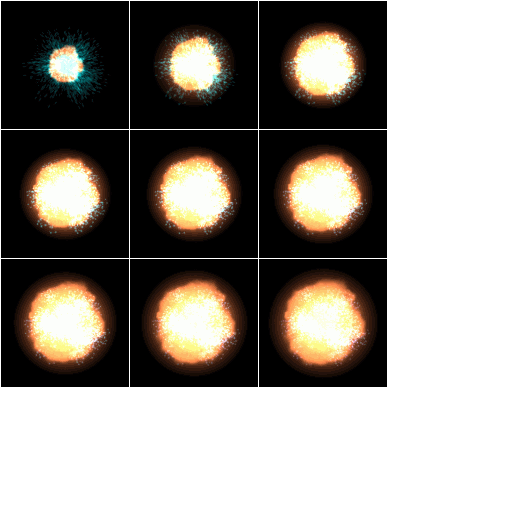
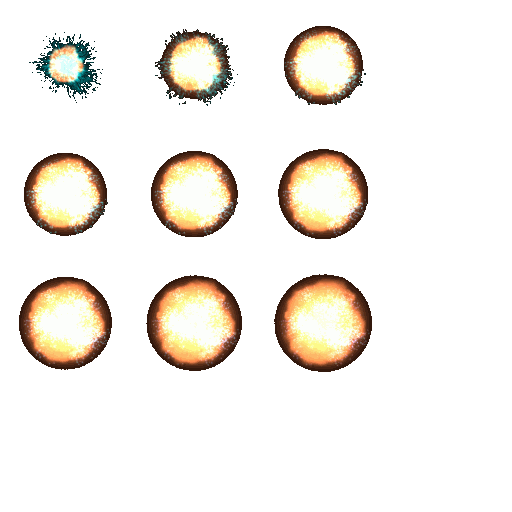
batch edit images with black for transparency: new script; modified images.

diff --git a/fixImages.py b/fixImages.py
@@ -1,0 +1,12 @@
+import os
+from subprocess import call
+
+def process(imgs, dirname, fnames):
+	print "replacing black backgrounds with transparency"
+	for img in imgs:
+		hits = [os.path.join(dirname, fname) for fname in fnames if fname.startswith(img)]
+		for fpath in hits:
+			print ' - converting', fpath
+			call('convert -transparent black -fuzz 10%% %s %s'%(fpath, fpath), shell=True)
+
+os.path.walk('resources/images', process, ['explosion1', 'explosion3', 'playerthrust'])
